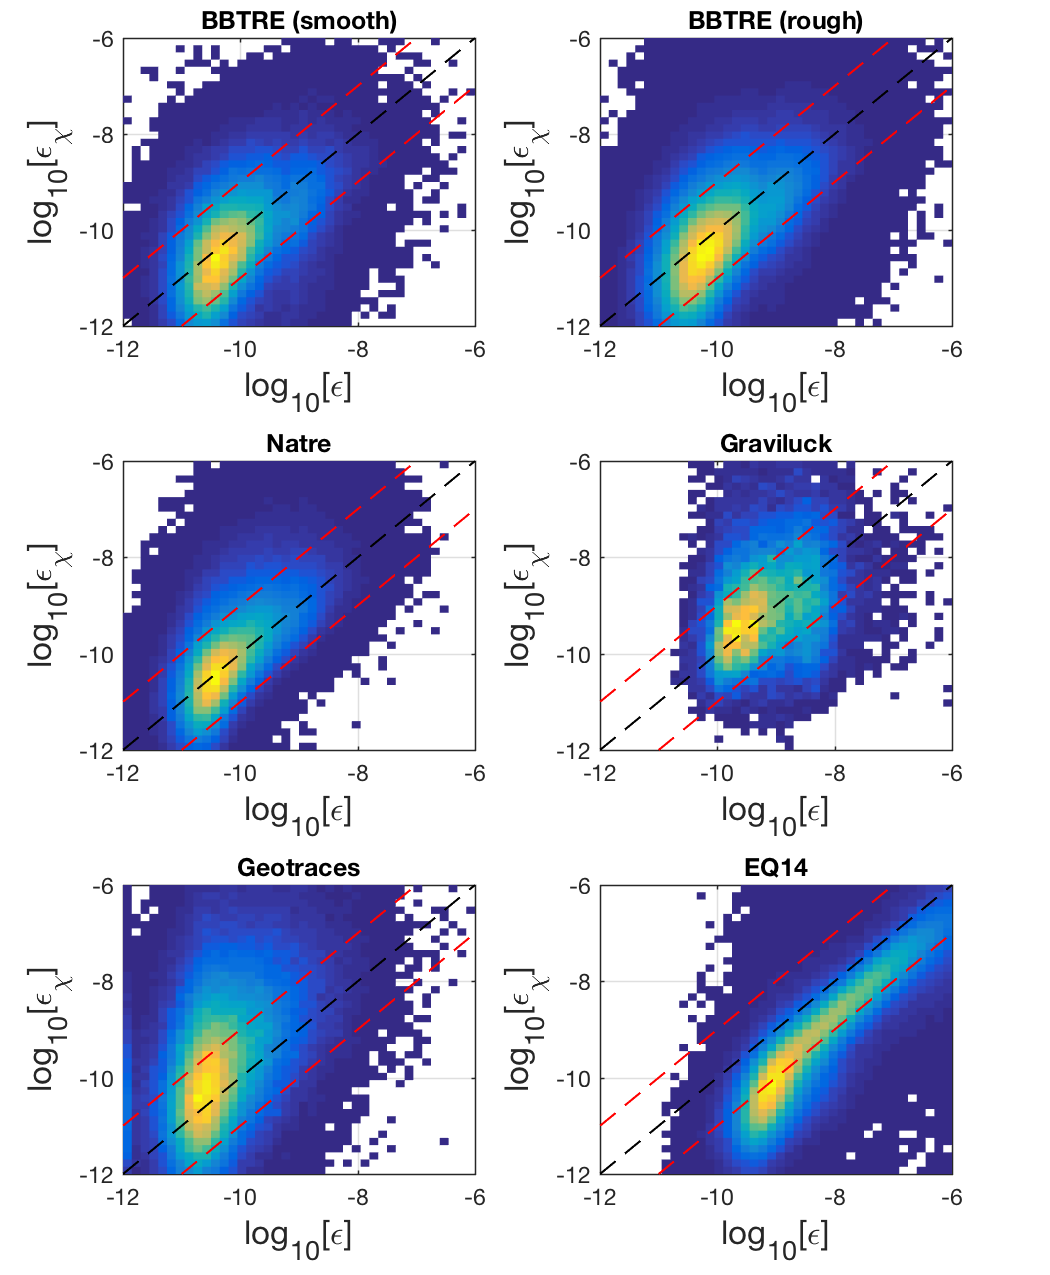
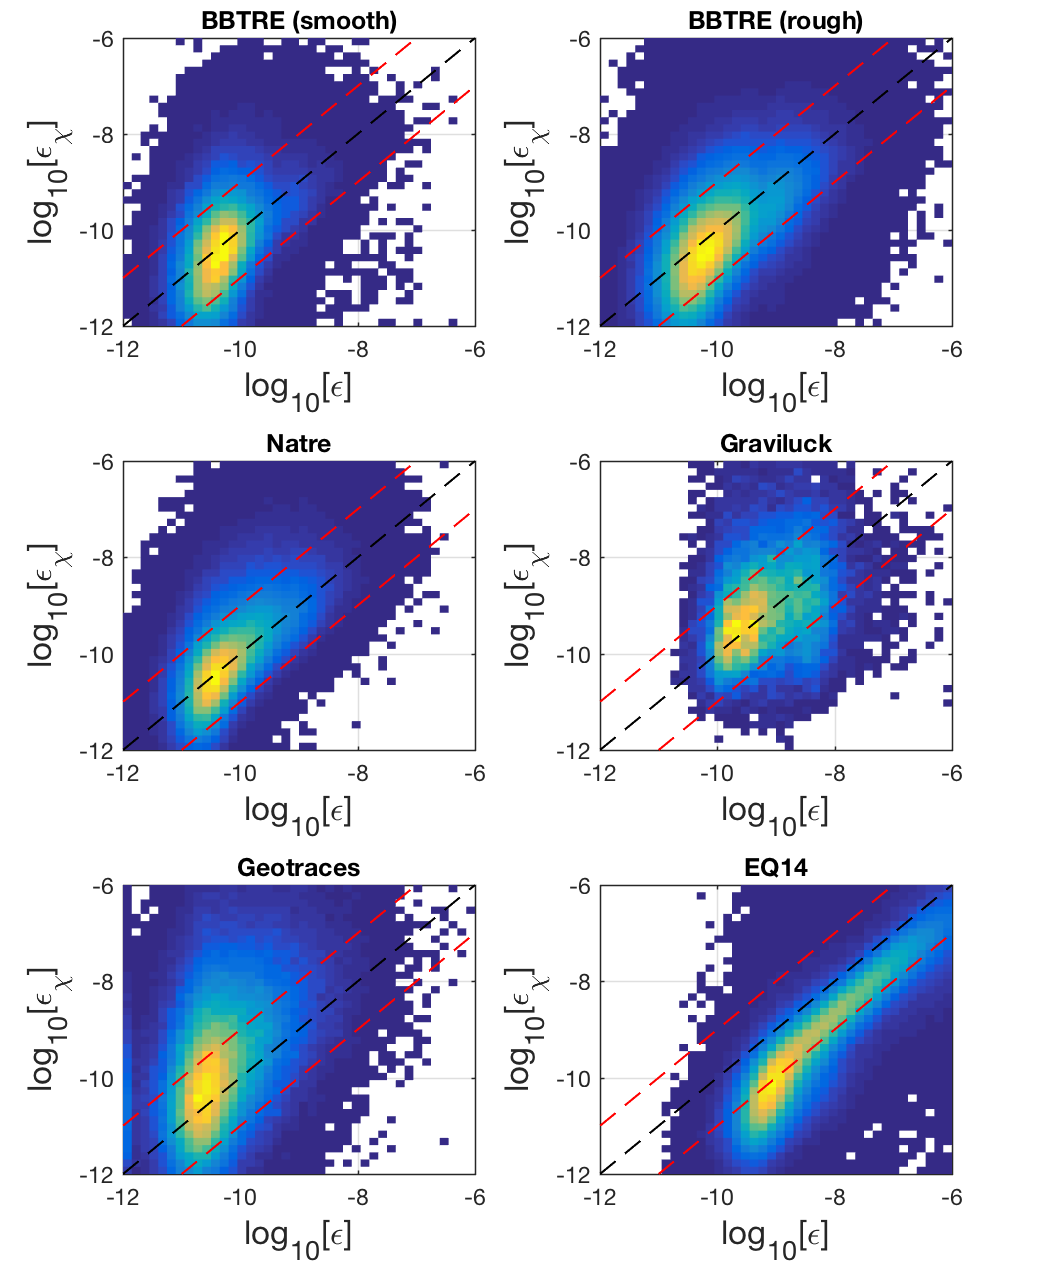
use function to load micro data

Changed region(s): [[0.1829, 0.0306, 0.4571, 0.2753], [0.1219, 0.0306, 0.2743, 0.1529]]

diff --git a/Andy_Pickering/micro_database/Plot_epschi_eps_2Dhist_all.m b/Andy_Pickering/micro_database/Plot_epschi_eps_2Dhist_all.m
@@ -11,7 +11,7 @@
 clear ; close all
 
 
-eps_thresh = 1
+eps_thresh = 0
 eps_floor  = -10
 
 my_data_dir = '/Users/Andy/Google Drive/ChiCalculations/data/'
@@ -28,225 +28,16 @@ for i = [1:3,5,10]
     % close all
     clear tnm K presK Kt hrp hrp96 hrp97
     
-    if i == 3
-        
-        clear eps chi N2 dTdz hrp
-        
-        tnm = 'Natre';
-        %load('../../data/natre/natre_hrp_for_map.mat')
-        load( fullfile( my_data_dir,'natre','natre_hrp_for_map.mat'))
-        
-        K = 0.2 * hrp.eps ./ hrp.N2;
-        presK = hrp.pres;
-        
-        KT = 0.5 *  hrp.chit(1:end-1,:) ./ (diff(hrp.temp)./diff(hrp.pres)).^2;
-        
-        eps = hrp.eps;
-        chi = hrp.chit;
-        N2  = hrp.N2;
-        dTdz = (diffs(hrp.temp)./diffs(hrp.pres));% dTdz = [dTdz(:) ; nan];
-        eps_chi = N2 .* chi / 2 / 0.2 ./ (dTdz.^2);
-        
-    elseif i == 1
-        
-        clear hrp hrp96 hrp97 K KT eps chi N2 dTdz
-        tnm = 'BBTRE (smooth)';
-        %load('../../data/bbtre/bbtre_hrp_for_map.mat')
-        load( fullfile( my_data_dir,'bbtre','bbtre_hrp_for_map.mat'))
-        hrp96=hrp;  %[1:20,71:75]
-        %load('../../data/bbtre/bbtre97_hrp_for_map.mat')
-        load( fullfile( my_data_dir,'bbtre','bbtre97_hrp_for_map.mat'))
-        %hrp97=hrp;  % 1:36
-        % why isn't hrp97 used?
-        
-        % Krho?
-        hrp_bbtre_smooth = 0.2*([hrp96.eps(:, [2:5,7:20,71:74])])./([hrp96.N2(:, [2:5,7:20,71:74])]);
-        
-        K = hrp_bbtre_smooth;
-        presK=hrp96.pres(:, [2:5,7:20,71:74]);
-        
-        KT = 0.5 * hrp96.chit(1:end-1,[2:5,7:20,71:74]) ./ (diff(hrp96.temp(:,[2:5,7:20,71:74]))./diff(hrp96.pres(:,[2:5,7:20,71:74]))).^2;
-        
-        eps = hrp.eps(:, [2:5,7:20,71:74]);
-        chi = hrp.chit(:, [2:5,7:20,71:74]);
-        N2  = hrp.N2(:, [2:5,7:20,71:74]);
-        dTdz= (diffs(hrp.temp(:, [2:5,7:20,71:74]))./diffs(hrp.pres(:, [2:5,7:20,71:74])));% dTdz = [dTdz(:) ; nan];
-        eps_chi = N2 .* chi / 2 / 0.2 ./ (dTdz.^2);
-        
-        
-    elseif i == 2
-        
-        clear hrp hrp96 hrp97 K KT eps chi N2 dTdz
-        
-        tnm = 'BBTRE (rough)';
-        %load('../../data/bbtre/bbtre_hrp_for_map.mat')
-        load( fullfile( my_data_dir,'bbtre','bbtre_hrp_for_map.mat'))
-        hrp96=hrp;
-        %load('../../data/bbtre/bbtre97_hrp_for_map.mat')
-        load(fullfile(my_data_dir,'bbtre','bbtre97_hrp_for_map.mat'))
-        hrp97=hrp;
-        
-        % Krho?
-        % mixed hrp96 and hrp97?
-        hrp_bbtre_rough = 0.2*([hrp96.eps(1:10815,[1,6,21:70,75]) hrp97.eps(:,1:end)])./([hrp96.N2(1:10815,[1,6,21:70,75]) hrp97.N2(:,1:end)]);
-        K = hrp_bbtre_rough;
-        
-        presK = [hrp96.pres(1:10815,[1,6,21:70,75]) hrp97.pres(:,1:end)];
-        
-        KT = 0.5 * ([hrp96.chit(1:10815-1,[1,6,21:70,75]) hrp97.chit(1:end-1,1:end)])./  (diff([hrp96.temp(1:10815,[1,6,21:70,75]) hrp97.temp(:,1:end)])./diff([hrp96.pres(1:10815,[1,6,21:70,75]) hrp97.pres(:,1:end)])).^2;
-        
-        clear temp p
-        temp = [hrp96.temp(1:10815,[1,6,21:70,75]) hrp97.temp(:,1:end)];
-        p= [hrp96.pres(1:10815,[1,6,21:70,75]) hrp97.pres(:,1:end)];
-        
-        eps = [hrp96.eps(1:10815,[1,6,21:70,75]) hrp97.eps(:,1:end)];
-        chi = [hrp96.chit(1:10815,[1,6,21:70,75]) hrp97.chit(:,1:end)];%hrp.chit;
-        N2  = [hrp96.N2(1:10815,[1,6,21:70,75]) hrp97.N2(:,1:end)];%hrp.N2;
-        dTdz= diffs(temp)./diffs(p);% dTdz = [dTdz(:) ; nan];
-        eps_chi = N2 .* chi / 2 / 0.2 ./ (dTdz.^2);
-        
-    elseif i == 4
-        
-        %** missing chi? **
-        
-        clear hrp hrp96 hrp97 K KT eps chi N2 dTdz
-        
-        tnm = 'Ladder';
-        %load('../../data/ladder/ladder_hrp_for_map.mat')
-        load (fullfile( my_data_dir,'ladder','ladder_hrp_for_map.mat'))
-        K = 0.2 * hrp.eps ./ hrp.N2;
-        presK = hrp.pres;
-        
-        KT = 0.5 *  hrp.chit(1:end-1,:) ./ (diff(hrp.temp)./diff(hrp.pres)).^2;
-        
-        eps = hrp.eps;
-        chi = hrp.chit;
-        N2  = hrp.N2;
-        dTdz= (diffs(hrp.temp)./diffs(hrp.pres));% dTdz = [dTdz(:) ; nan];
-        eps_chi = N2 .* chi / 2 / 0.2 ./ (dTdz.^2);
-        
-        
-    elseif i == 5
-        
-        tnm = 'Graviluck';
-        
-        clear hrp hrp96 hrp97 K KT eps chi N2 dTdz
-        
-        % only plot down to 2216m since below that one profile exists
-        %load('../../data/graviluck/graviluck_hrp_for_map.mat')
-        load(fullfile(my_data_dir,'graviluck','graviluck_hrp_for_map.mat'))
-        K = 0.2 * hrp.eps ./ hrp.N2;
-        presK = hrp.pres;
-        
-        KT = 0.5 *  hrp.chit(1:end-1,:) ./ (diff(hrp.temp)./diff(hrp.pres)).^2;
-        
-        eps = hrp.eps;
-        chi = hrp.chit;
-        N2  = hrp.N2;
-        dTdz= (diffs(hrp.temp)./diffs(hrp.pres));% dTdz = [dTdz(:) ; nan];
-        eps_chi = N2 .* chi / 2 / 0.2 ./ (dTdz.^2);
-        
-    elseif i == 6
-        
-        %** no chi **
-        
-        clear hrp hrp96 hrp97 K KT eps chi N2 dTdz
-        
-        tnm= 'Fieberling';
-        %load('../../data/fieberling/fieberling_hrp_for_map.mat')
-        load( fullfile( my_data_dir,'fieberling','fieberling_hrp_for_map.mat'))
-        K = 0.2 * hrp.eps ./ hrp.N2;
-        presK = hrp.pres;
-        
-        KT = 0.5 *  hrp.chit(1:end-1,:) ./ (diff(hrp.temp)./diff(hrp.pres)).^2;
-        
-        eps = hrp.eps;
-        chi = hrp.chit;
-        N2  = hrp.N2;
-        dTdz= (diffs(hrp.temp)./diffs(hrp.pres));% dTdz = [dTdz(:) ; nan];
-        eps_chi = N2 .* chi / 2 / 0.2 ./ (dTdz.^2);
-        
-    elseif i == 7
-        
-        % ** no chi?
-        
-        clear hrp K KT eps chi N2 dTdz
-        
-        tnm= 'Dimes_{DP}';
-        %load('../../data/dimes/dimes_hrp_for_map.mat')
-        load( fullfile( my_data_dir,'dimes','dimes_hrp_for_map.mat'))
-        K = 0.2 * hrp.eps ./ hrp.N2;
-        presK = hrp.pres;
-        
-        KT = 0.5 *  hrp.chit(1:end-1,:) ./ (diff(hrp.temp)./diff(hrp.pres)).^2;
-        
-        eps = hrp.eps;
-        chi = hrp.chit;
-        N2  = hrp.N2;
-        dTdz= (diffs(hrp.temp)./diffs(hrp.pres));% dTdz = [dTdz(:) ; nan];
-        eps_chi = N2 .* chi / 2 / 0.2 ./ (dTdz.^2);
-        
-    elseif i == 8
-        
-        clear hrp K KT eps chi N2 dTdz
-        
-        tnm= 'Dimes_{West}';
-        %load('../../data/dimes/dimes_pacific_hrp_for_map.mat')
-        load( fullfile( my_data_dir,'dimes','dimes_pacific_hrp_for_map.mat'))
-        K = 0.2 * hrp.eps ./ hrp.N2;
-        presK = hrp.pres;
-        
-        KT = 0.5 *  hrp.chit(1:end-1,:) ./ (diff(hrp.temp)./diff(hrp.pres)).^2;
-        
-        eps = hrp.eps;
-        chi = hrp.chit;
-        N2  = hrp.N2;
-        dTdz= (diffs(hrp.temp)./diffs(hrp.pres));% dTdz = [dTdz(:) ; nan];
-        eps_chi = N2 .* chi / 2 / 0.2 ./ (dTdz.^2);
-        
-    elseif i == 9
-        
-        clear hrp K KT eps chi N2 dTdz
-        
-        tnm= 'Toto';
-        %load('../../data/toto/toto_hrp_for_map.mat')
-        load( fullfile( my_data_dir, 'toto','toto_hrp_for_map.mat'))
-        K = 0.2 * hrp.eps ./ hrp.N2;
-        presK = hrp.pres;
-        
-        KT = 0.5 *  hrp.chit(1:end-1,:) ./ (diff(hrp.temp)./diff(hrp.pres)).^2;
-        
-        eps = hrp.eps;
-        chi = hrp.chit;
-        N2  = hrp.N2;
-        dTdz= (diffs(hrp.temp)./diffs(hrp.pres));% dTdz = [dTdz(:) ; nan];
-        eps_chi = N2 .* chi / 2 / 0.2 ./ (dTdz.^2);
-        
-    elseif i == 10
-        tnm = 'Geotraces';
-        % * note chi, not chit
-        clear K KT eps chi N2 dTdz eps_chi
-        %load('../../data/geotraces/geotraces_hrp_for_map.mat');
-        load( fullfile( my_data_dir,'geotraces','geotraces_hrp_for_map.mat'))
-        K = 0.2 * hrp.eps ./ hrp.N2;
-        presK = hrp.pres;
-        
-        KT = 0.5 *  hrp.chi(1:end-1,:) ./ (diff(hrp.temp)./diff(hrp.pres)).^2;
-        
-        eps = hrp.eps;
-        chi = hrp.chi;
-        N2  = hrp.N2;
-        dTdz= (diffs(hrp.temp)./diffs(hrp.pres));% dTdz = [dTdz(:) ; nan];
-        eps_chi = N2 .* chi / 2 / 0.2 ./ (dTdz.^2);
-        
-    end
+    clear mix
+    mix = Load_micro_data_mat(i,eps_thresh,eps_floor) ;
+    
     
     
     if eps_thresh==1
-        ib = find(log10(eps)<eps_floor);
-        eps(ib)=nan;
-        eps_chi(ib)=nan;
-        chi(ib)=nan;
+        %        ib = find(log10(eps)<eps_floor);
+        %        eps(ib)=nan;
+        %        eps_chi(ib)=nan;
+        %        chi(ib)=nan;
         axlims=[eps_floor -6];
     else
         axlims=[-12 -6];
@@ -256,7 +47,7 @@ for i = [1:3,5,10]
     
     figure(2)
     subplot(3,2,iax)
-    histogram2( real(log10(eps)), real(log10(eps_chi)),'Xbinedges',[-12:0.15:-5],'Ybinedges',[-12:0.15:-5],'DisplayStyle','tile','Normalization','pdf')
+    histogram2( real(log10(mix.eps)), real(log10(mix.eps_chi)),'Xbinedges',[-12:0.15:-5],'Ybinedges',[-12:0.15:-5],'DisplayStyle','tile','Normalization','pdf')
     xlim(axlims)
     ylim(axlims)
     xvec = linspace(-12,-5,100);
@@ -264,7 +55,7 @@ for i = [1:3,5,10]
     plot(xvec,xvec,'k--')
     plot(xvec,xvec-1,'r--')
     plot(xvec,xvec+1,'r--')
-    title(tnm)
+    title(mix.project)
     xlabel('log_{10}[\epsilon]','fontsize',16)
     ylabel('log_{10}[\epsilon_{\chi}]','fontsize',16)
     
